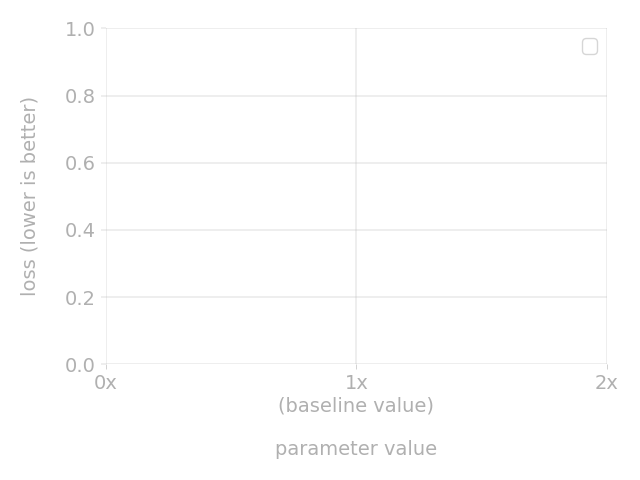
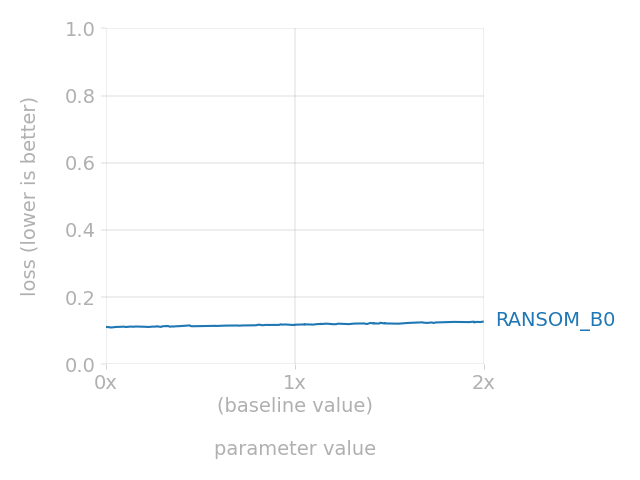
sensitivity analysis plots existing results correctly

diff --git a/cpp-games/scripts/plot_sensitivity_analysis.py b/cpp-games/scripts/plot_sensitivity_analysis.py
@@ -29,12 +29,14 @@ def plot_sensitivity_analysis():
 
         plt.clf()
     
-        for filename in os.listdir("../logs/sweeps/"):
+        reldir = "../logs/sweeps/MAX_ITERATIONS=100/"
+        for filename in os.listdir(reldir): # consider doing MAX_ITERATIONS=5000 as well
             
-            path = "../logs/sweeps/"
-            df = pd.read_csv(path + filename)
+            # path = "../logs/sweeps/"
+            df = pd.read_csv(reldir + filename)
 
             var = filename[6:-4] # trim off sweep_ and .csv
+            print(var)
 
 
             if len(df) < 100:
@@ -47,12 +49,13 @@ def plot_sensitivity_analysis():
 
 
             # sort by value
-            df.sort_values(by=[var])
+            df = df.sort_values(by=[var])
+            print(df)
             
             df['loss'] = 1 - df['d_end'] / df['d_init'] # == (d_init - d_end) / d_init
-            df[val] = df[val] / baseline_vals[val] # Should normalize df[val] to be within range [0,2]
-            assert(df[val].max <= 2)
-            assert(df[val].min >= 0)
+            df[var] = df[var] / baseline_vals[var] # Should normalize df[val] to be within range [0,2]
+            assert(df[var].max() <= 2)
+            assert(df[var].min() >= 0)
 
 
             plt.plot(df[var], df['loss'], label=var)
@@ -63,7 +66,10 @@ def plot_sensitivity_analysis():
         plt.xticks((0,1,2), ("0x", "1x\n(baseline value)", "2x"))
         plt.xlabel("parameter value")
         plt.ylabel("loss (lower is better)")
-        plt.legend()
+        plt.ylim(0,1)
+        # plt.legend()
+        matplotx.line_labels()  # line labels to the right
+
         plt.tight_layout()
         plt.savefig("figures/sensitivity_analysis/sensitivity_analysis.pdf")
         plt.savefig("figures/sensitivity_analysis/sensitivity_analysis.png")
